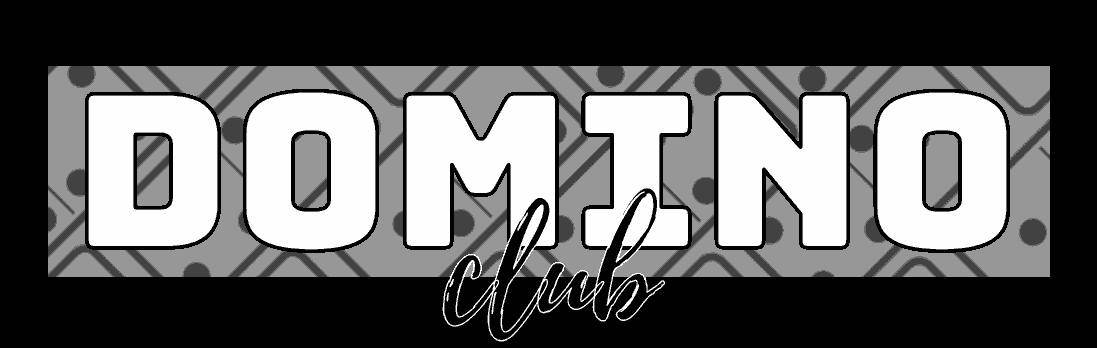
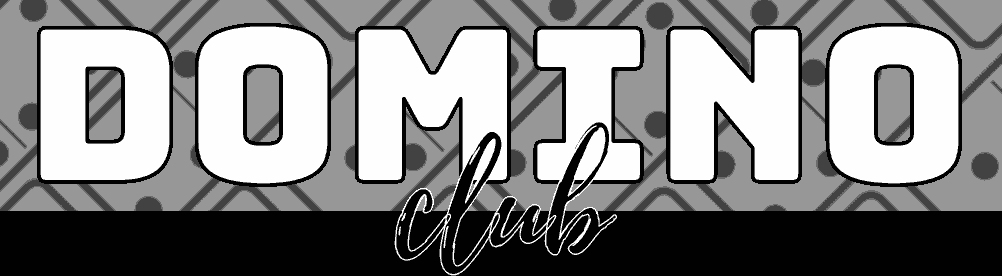
tweak header spacing

diff --git a/static/css/style_domino-pieces.css b/static/css/style_domino-pieces.css
@@ -109,12 +109,15 @@ picture>img {
 
 #home_banner {
     margin: 0;
+    margin-top: 1rem;
 }
 #home_banner > img {
-    max-width: 100vw;
+    max-width: 100%;
     max-height: 35vh;
     width: auto;
     height: auto;
+    object-fit: scale-down;
+    object-position: center;
 }
 
 #jam_banner {
